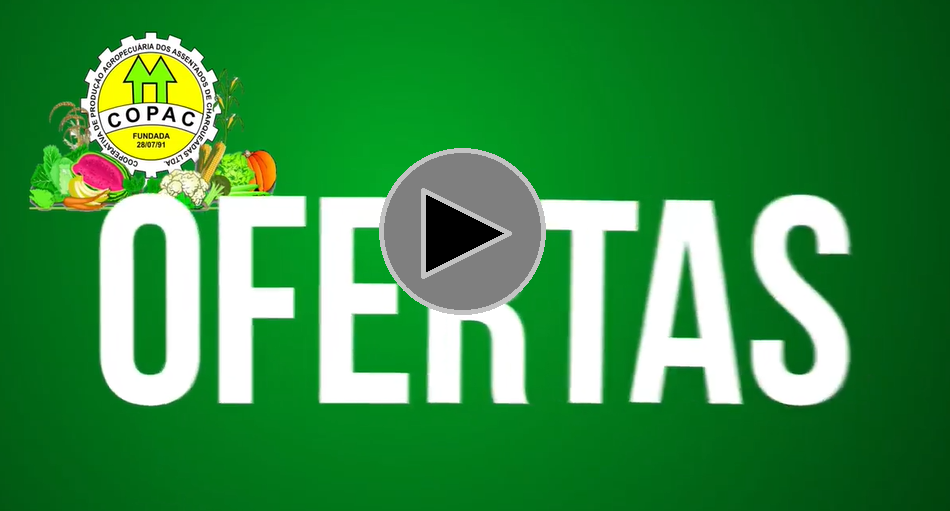
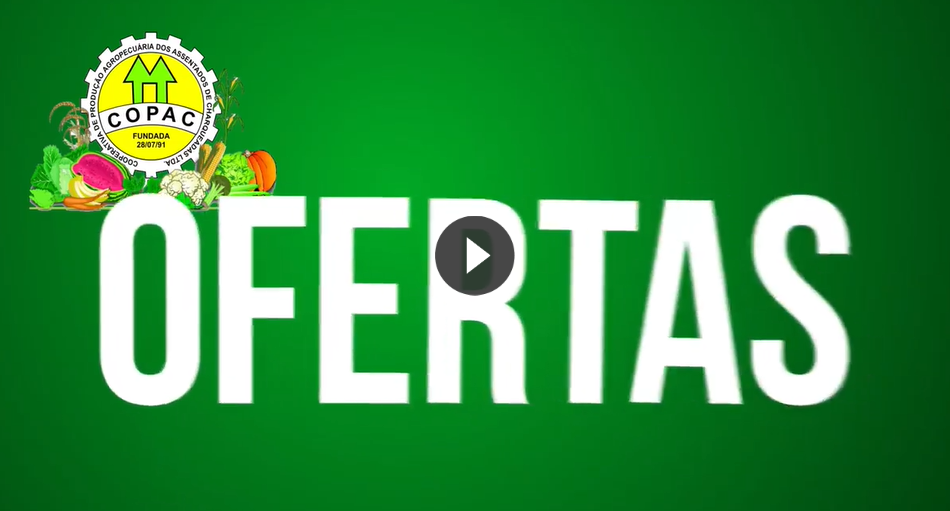
add new preview img for /video

Changed region(s): [[0.3968, 0.2935, 0.58, 0.6164]]

diff --git a/src/app/video/video.component.ts b/src/app/video/video.component.ts
@@ -26,12 +26,12 @@ export class VideoComponent implements OnInit {
     this.meta.updateTag({ name: 'keywords', content: 'Supercopac, Mercado, Supermercado, Promo, Oferta, Promoção, Preço, Video' });
     this.meta.updateTag({ name: 'description', content: 'Confira o vídeo com as promoções da copac' });
     this.meta.updateTag({ name: 'type', content: 'video' });
-    this.meta.addTag({property: 'og:type', content: 'image'});
-    this.meta.addTag({property: 'og:image', content: 'https://copac.herokuapp.com/assets/play.png'});
-    this.meta.addTag({property: 'og:image:type', content: 'image/png'});
-    this.meta.addTag({property: 'og:image:width', content: '950'});
-    this.meta.addTag({property: 'og:image:height', content: '511'});
-    this.meta.addTag({property: 'fb:app_id', content: '507937906363306'});
+    this.meta.updateTag({property: 'og:type', content: 'image'});
+    this.meta.updateTag({property: 'og:image', content: 'https://copac.herokuapp.com/assets/play.png'});
+    this.meta.updateTag({property: 'og:image:type', content: 'image/png'});
+    this.meta.updateTag({property: 'og:image:width', content: '950'});
+    this.meta.updateTag({property: 'og:image:height', content: '511'});
+    this.meta.updateTag({property: 'fb:app_id', content: '507937906363306'});
   }
 
   ngOnInit() {
